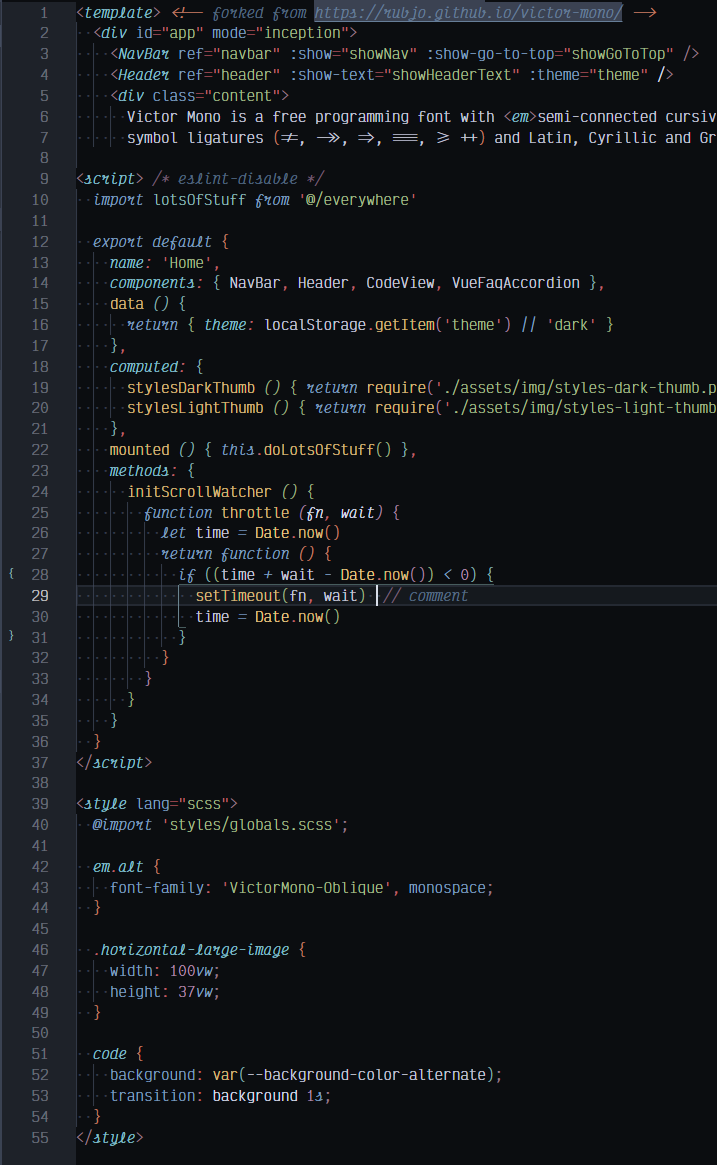
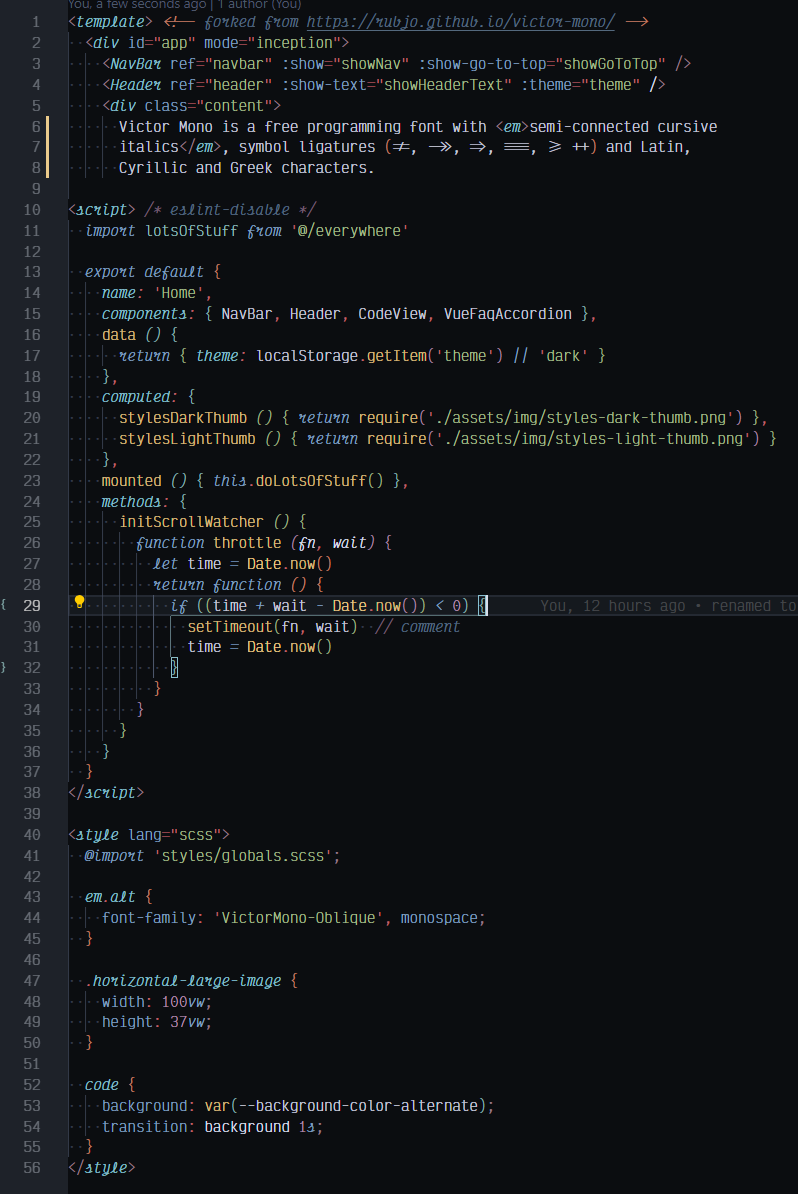
prep for marketplace publish

Changed region(s): [[0.0, 0.0, 1.0, 1.0], [0.8898, 0.4944, 1.0, 0.5253]]

diff --git a/demos/htm.htm b/demos/htm.htm
@@ -3,8 +3,9 @@
     <NavBar ref="navbar" :show="showNav" :show-go-to-top="showGoToTop" />
     <Header ref="header" :show-text="showHeaderText" :theme="theme" />
     <div class="content">
-      Victor Mono is a free programming font with <em>semi-connected cursive italics</em>,
-      symbol ligatures (!=, ->>, =>, ===, >= ++) and Latin, Cyrillic and Greek characters.
+      Victor Mono is a free programming font with <em>semi-connected cursive
+      italics</em>, symbol ligatures (!=, ->>, =>, ===, >= ++) and Latin,
+      Cyrillic and Greek characters.
 
 <script> /* eslint-disable */
   import lotsOfStuff from '@/everywhere'

diff --git a/README.md b/README.md
@@ -2,7 +2,9 @@
 
 # Nord City VSCode Theme
 
-A customized Nord theme for Visual Studio Code with italic support and wider range of colors used.  Intended to work with [Victor Mono](https://rubjo.github.io/victor-mono/) programming font, but should work with [Operator Mono ($297USD)](https://www.typography.com/fonts/operator/styles/operatormono0, & other [italic alternatives](https://dev.to/jandedobbeleer/a-viable-alternative-to-operator-mono-in-visual-studio-code-ge8).  A no italic option is available.
+![icon](icon-nord-4dot.png "icon")
+
+A customized Nord theme for Visual Studio Code with italic support and wider range of colors used.  Intended to work with [Victor Mono](https://rubjo.github.io/victor-mono/) programming font, but should work with [Operator Mono ($297USD)](https://www.typography.com/fonts/operator/styles/operatormono0), & other [italic alternatives](https://dev.to/jandedobbeleer/a-viable-alternative-to-operator-mono-in-visual-studio-code-ge8).  A no italic option is available.
 
 ![HTML demo screenshot](demos/htm.png "HTML demo screenshot")
 

diff --git a/CHANGELOG.md b/CHANGELOG.md
@@ -1,5 +1,13 @@
 # Change Log
 
+## [1.2.1]
+* prep for marketplace release
+  + add licence: MIT
+  + add icon for logo
+  + updated theme filenames
+* fixed bad selector field names
+* added forgotten `json.png` in demo
+
 ## [1.2.0]
 * forked from [chaddanna/Nord-Operator-Theme](https://github.com/chaddanna/Nord-Operator-Theme)
 * reduced the number of italic items
@@ -13,6 +21,6 @@
 * added no-italics version
 
 ## [1.0.0]
-* intial release as [Nord-Operator-Theme](https://github.com/chaddanna/Nord-Operator-Theme), assuming forked from [arcticicestudio/nord-visual-studio-code]{https://github.com/arcticicestudio/nord-visual-studio-code}
+* intial release as [Nord-Operator-Theme](https://github.com/chaddanna/Nord-Operator-Theme), assuming forked from [arcticicestudio/nord-visual-studio-code](https://github.com/arcticicestudio/nord-visual-studio-code)
 * added italics
 * added more colors

diff --git a/demos/demos.md b/demos/demos.md
@@ -8,6 +8,12 @@
 
 SCSS is the same.
 
+## JSON
+
+![JSON demo screenshot](json.png "JSON demo screenshot")
+
+JSON seems a bit dark & too woodsy for me, but does match how strings are quoted, so I'll leave for now..
+
 ## JSX (XML inside JavaScript)
 
 ![JSX demo screenshot](jsx.png "JSX demo screenshot")
